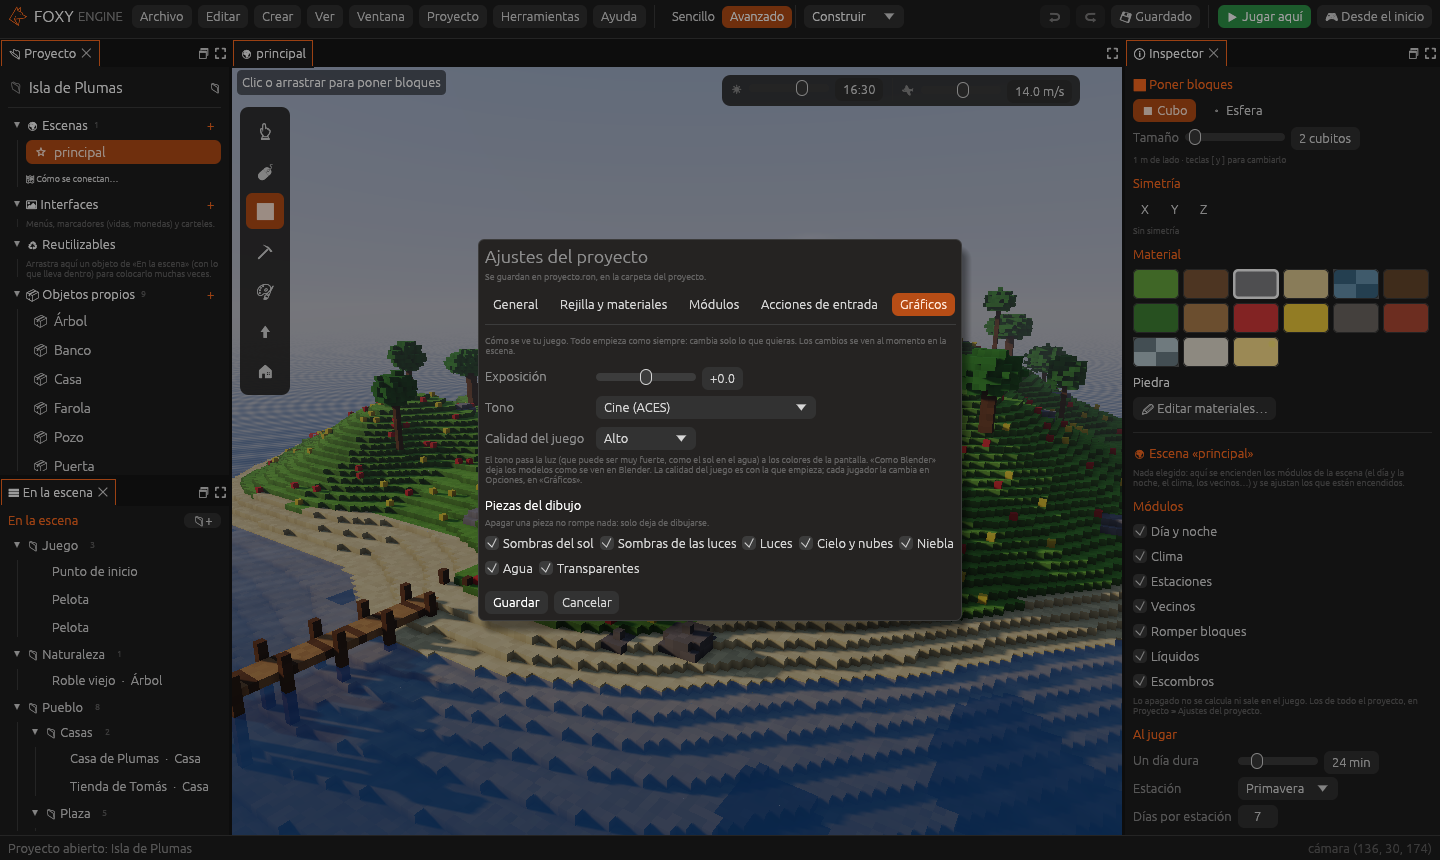
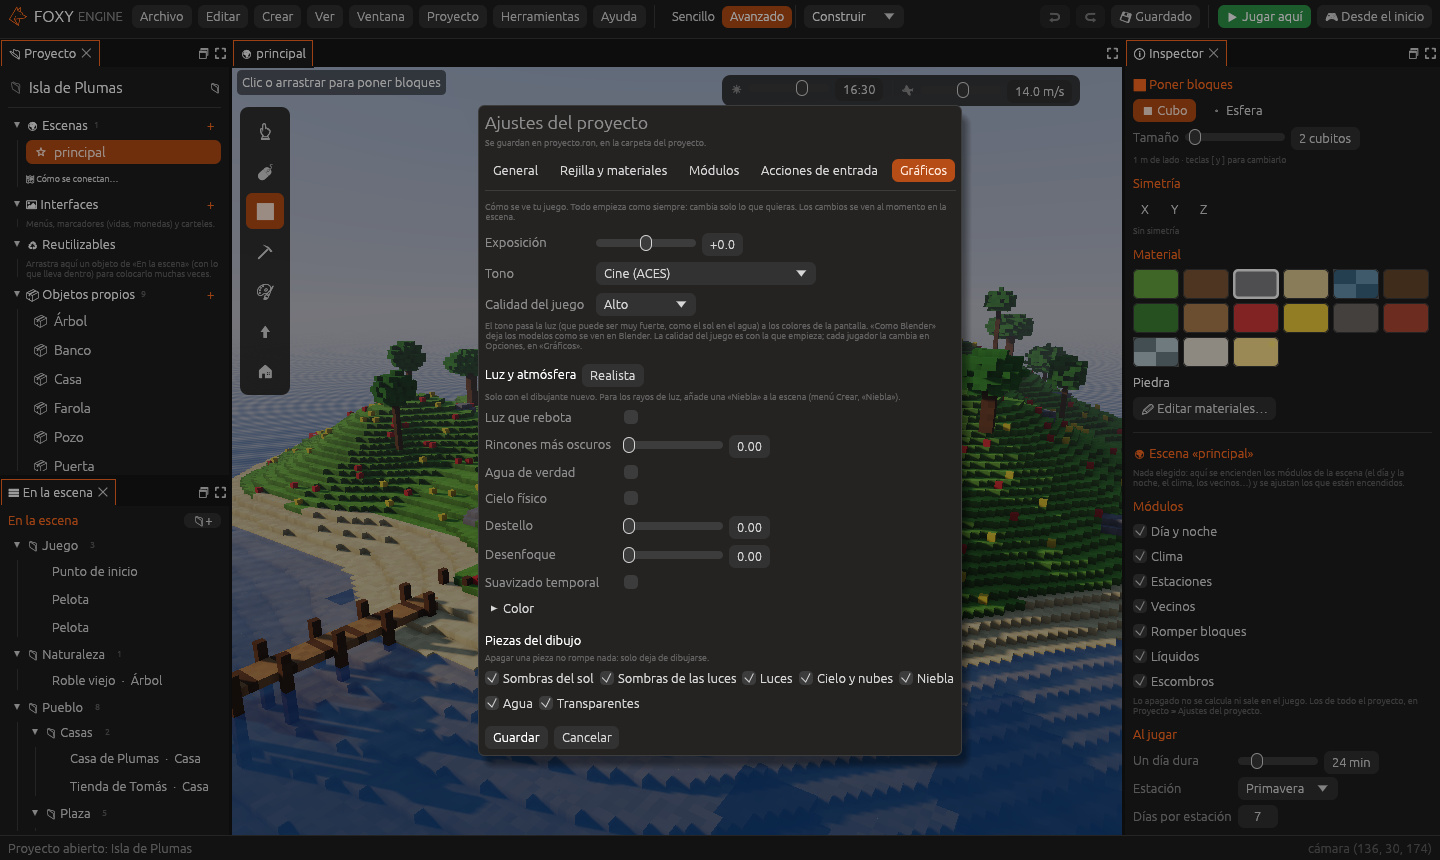
Fase J: luz y atmósfera (#22)
- Gráficos: sección «Luz y atmósfera» (piezas, botón Realista y rayos de
  luz con la niebla), con capturas nuevas.
- Componente Niebla en la referencia, el glosario y el historial.
- Ajustes del proyecto y línea de órdenes (--atmosfera, escena rayos-de-sol).

Claude-Session: https://claude.ai/code/session_0188fnkqAsThJjUnew5984Gv

Changed region(s): [[0.3125, 0.1209, 0.6875, 0.907], [0.5312, 0.4535, 0.625, 0.4837], [0.625, 0.6047, 0.6562, 0.6349]]

diff --git a/theme/version.js b/theme/version.js
@@ -1,2 +1,2 @@
 // Lo escribe herramientas/capturas.py con `foxy-engine --version`.
-window.FOXY_VERSION = "0.0.1-PR40";
+window.FOXY_VERSION = "0.0.1-PR42";

diff --git a/herramientas/capturas.py b/herramientas/capturas.py
@@ -180,7 +180,7 @@ LISTA: dict[str, str] = {
     "isla": f"{JUEGO} {ISLA}",
     # Gráficos (Fase I)
     "ajustes-graficos": f"{ED} --pestana ajustes-graficos",
-    "panel-ajustes-graficos": "@recorte ajustes-graficos 476,236,964,624",
+    "panel-ajustes-graficos": "@recorte ajustes-graficos 476,104,964,758",
     "juego-opciones-graficos": f"{JUEGO} --juego --menu opciones-graficos",
     "cueva-antorchas": f"{JUEGO} --enorme cueva-con-antorchas",
     "modelos-pbr": f"{ED} --pestana modelos --camara 49.6,6.6,50.6 --mirar 47.8,5.2,46 --hora 21 --recortar vista",
@@ -188,6 +188,10 @@ LISTA: dict[str, str] = {
     "tono-blender": f"--ancho 720 --alto 430 {ISLA} --hora 17.2 --tono blender",
     "tono-neutro": f"--ancho 720 --alto 430 {ISLA} --hora 17.2 --tono neutro",
     "tono-ninguno": f"--ancho 720 --alto 430 {ISLA} --hora 17.2 --tono ninguno",
+    # Luz y atmósfera (Fase J)
+    "rayos-de-sol": f"{JUEGO} --enorme rayos-de-sol",
+    "rayos-de-sol-realista": f"{JUEGO} --enorme rayos-de-sol --atmosfera realista",
+    "isla-realista": f"--ancho 720 --alto 430 {ISLA} --hora 17.2 --atmosfera realista",
     # Marca
     "marca-splash": f"{JUEGO} --splash",
     "marca-carga-editor": f"{JUEGO} --editor --splash",

diff --git a/src/guia/graficos.md b/src/guia/graficos.md
@@ -1,4 +1,4 @@
-# Gráficos: luz, sombras y calidad
+# Gráficos: luz, sombras y atmósfera
 
 Foxy Engine dibuja con **luz de verdad**: el sol, una antorcha o la lava
 pueden dar mucha más luz que el blanco de la pantalla, como en la vida real.
@@ -15,7 +15,8 @@ los materiales y las luces funcionan como en Blender.
 
 | Qué | Dónde | Para quién |
 |---|---|---|
-| Exposición, tono y piezas del dibujo | **Proyecto → Ajustes del proyecto → Gráficos** | Todo el juego |
+| Exposición, tono, luz y atmósfera y piezas del dibujo | **Proyecto → Ajustes del proyecto → Gráficos** | Todo el juego |
+| Niebla y rayos de luz | Un objeto con el componente [Niebla](../referencia/componentes/niebla.md) | Esa escena |
 | Calidad con la que empieza el juego | **Ajustes del proyecto → Gráficos** | Los jugadores, al abrirlo por primera vez |
 | Calidad del juego de cada jugador | **Opciones → Gráficos**, dentro del juego | Ese jugador |
 | Calidad en el editor y el dibujante | **Editar → Preferencias** | Tu ordenador |
@@ -88,6 +89,58 @@ que tiene alrededor**. Ver
 
 ![Una losa de lava con relieve que brilla e ilumina la esfera de al lado](../imagenes/capturas/modelos-pbr.png)
 
+## Luz y atmósfera
+
+Estas piezas hacen que la escena parezca de verdad. Todas vienen
+**apagadas**: un proyecto nuevo se ve igual que siempre. El botón
+**Realista** las enciende de una vez con unos valores que quedan bien, y
+**Apagar todo** las quita.
+
+| Isla con el tono Cine | La misma isla con **Realista** |
+|---|---|
+| ![La isla sin luz y atmósfera](../imagenes/capturas/tono-cine.png) | ![La isla con Realista: cielo físico, agua de verdad y destello](../imagenes/capturas/isla-realista.png) |
+
+| Pieza | Qué hace |
+|---|---|
+| **Luz que rebota** | La luz del sol rebota en el terreno de cubitos. Una cueva cerrada se queda a oscuras, y la luz que entra por un agujero aclara la sala |
+| **Rincones más oscuros** | Las juntas y los rincones reciben menos luz (oclusión ambiental). De 0 a 1 |
+| **Agua de verdad** | Se ve el fondo torcido por las olas, el agua honda se vuelve azul, refleja lo que tiene alrededor y hace espuma en la orilla |
+| **Cielo físico** | El color del cielo sale de cómo el aire esparce la luz: azul a mediodía y rojo al atardecer |
+| **Destello** | Lo muy brillante, como el sol o una antorcha, deja un halo |
+| **Desenfoque** | Lo que no está enfocado se ve borroso, como en una cámara. **Enfoque** dice a qué distancia se ve nítido (0 es lo que haya en el centro) |
+| **Suavizado temporal** | Quita los dientes de sierra de los bordes mezclando cada fotograma con el anterior |
+| **Escala del dibujo** | Con el suavizado temporal, dibuja a menos resolución y la vuelve a agrandar: más fotogramas por segundo. Solo al jugar; en el editor se ve siempre entero |
+| **Color** | Contraste, saturación, temperatura (más cálido o más frío) y viñeta (bordes más oscuros) |
+
+Estas piezas solo funcionan con el dibujante nuevo.
+
+### Rayos de luz con la niebla
+
+Para que salgan rayos de luz no hay que tocar ningún ajuste técnico. Basta
+con tres cosas:
+
+1. Un sol: el objeto **Sol** que trae cada escena, o **Crear → Luz del sol**.
+2. Un hueco por donde entre la luz: un agujero en el techo de una cueva, una
+   ventana o los árboles de un bosque.
+3. Niebla: **Crear → Niebla**.
+
+La niebla se ilumina donde le da el sol, y se ven los rayos que entran por
+el agujero. Las antorchas y las demás luces también hacen un halo en la
+niebla. Dentro de una cueva cerrada, la niebla se queda oscura.
+
+| Con la niebla de fábrica | Con la niebla y **Realista** |
+|---|---|
+| ![Una sala con agujeros en el techo: salen rayos de sol en la niebla](../imagenes/capturas/rayos-de-sol.png) | ![La misma sala con Realista: la luz rebota en el suelo y las columnas](../imagenes/capturas/rayos-de-sol-realista.png) |
+
+En el inspector de la niebla se cambian su **Densidad**, la fuerza de los
+**Rayos**, la **Altura** a la que se aclara (para hacer niebla de valle) y su
+**Color**. Ver [Niebla](../referencia/componentes/niebla.md).
+
+> <i class="fx fx-consejo"></i> **Consejo.** La luz que rebota y la niebla
+> gastan más en las calidades altas, porque miran más lejos y con más
+> detalle. Si el juego va lento, baja la **Calidad** o la **Escala del
+> dibujo** antes de apagar piezas.
+
 ## Piezas del dibujo
 
 Cada parte del dibujo se puede apagar: **Sombras del sol**, **Sombras de las
@@ -101,8 +154,8 @@ es lo que más cuesta en un ordenador lento.
 ## El dibujante clásico
 
 En **Editar → Preferencias → Dibujante** puedes elegir el **Clásico**, el
-que tenía el motor antes. No tiene exposición, tono, materiales completos ni
-luces con sombra. Úsalo solo si el nuevo da problemas en tu ordenador, y
+que tenía el motor antes. No tiene exposición, tono, materiales completos,
+luces con sombra ni luz y atmósfera. Úsalo solo si el nuevo da problemas en tu ordenador, y
 cuéntalo para que se pueda arreglar.
 
 ## Véase también
@@ -111,3 +164,4 @@ cuéntalo para que se pueda arreglar.
 - [Preferencias](preferencias.md#gráficos)
 - [Rendimiento](rendimiento.md)
 - [Luz](../referencia/componentes/luz.md)
+- [Niebla](../referencia/componentes/niebla.md)

diff --git a/src/apendices/glosario.md b/src/apendices/glosario.md
@@ -42,6 +42,7 @@
 | **Juego publicado** | Una aplicación hecha con **Proyecto › Publicar…** que se abre con doble clic, sin el motor instalado. Ver [Publicar tu juego](../publicar/publicar.md). |
 | **Llano** | Un terreno de hierba completamente plano, sin isla ni mar a la vista. Es el de un proyecto vacío. |
 | **Luz del sol** | El componente que pone la hora del sol, su fuerza y su color. Ver [Luz del sol](../referencia/componentes/sol.md). |
+| **Luz que rebota** | La luz del sol que rebota en el terreno y aclara lo que está a la sombra; también deja a oscuras las cuevas cerradas. Ver [Gráficos](../guia/graficos.md#luz-y-atmósfera). |
 | **Máquina de estados** | Estados con su animación y flechas con condiciones que eligen la animación sola. Ver [Máquina de estados](../guia/animacion.md#máquina-de-estados). |
 | **Marcador** | Una interfaz que está siempre a la vista mientras se juega. |
 | **Material** | De qué está hecho un cubito: hierba, piedra, madera… |
@@ -51,11 +52,13 @@
 | **Modo Sencillo** | El modo del editor para empezar: solo la escena, el panel Proyecto, la lista de la escena y el inspector. Ver [Modo Sencillo y Avanzado](../empezar/modo-sencillo.md). |
 | **Módulo** | Una parte del motor que el proyecto activa o desactiva. Ver [Módulos](../referencia/modulos/index.md). |
 | **Módulo (de Lua)** | Un guion que devuelve funciones para otros guiones, que lo cargan con `require`. |
+| **Niebla** | El componente que llena la escena de niebla. Donde le da el sol salen rayos de luz. Ver [Niebla](../referencia/componentes/niebla.md). |
 | **Nine-slice (estirar en nueve partes)** | Forma de estirar una imagen sin deformar sus esquinas. |
 | **Nodo** | Una caja de un grafo que hace una sola cosa. Ver la [Referencia de nodos](../referencia/nodos.md). |
 | **OBJ** | Un formato sencillo de modelos 3D: el `.obj` con la forma y el `.mtl` con los materiales. Ver [Modelos 3D](../guia/modelos-3d.md). |
 | **Objeto** | Cualquier cosa colocada en una escena, con nombre, posición, giro, un modelo opcional, componentes y comportamientos. En versiones antiguas del manual se llamaba *entidad*. Ver [Conceptos básicos](../conceptos/basicos.md). |
 | **Objeto propio** | Un objeto hecho con el creador de objetos, guardado en `objetos/`. |
+| **Oclusión ambiental** | Que los rincones y las juntas reciban menos luz. En los ajustes se llama «Rincones más oscuros». |
 | **Ortográfica (cámara)** | Una cámara sin perspectiva: lo lejano se ve igual de grande que lo cercano. |
 | **Paleta** | Una lista de colores para dibujar en pixel art. |
 | **Paleta de comandos** | La búsqueda de <kbd>Cmd</kbd>/<kbd>Ctrl</kbd>+<kbd>K</kbd>: escribe lo que quieres hacer o abrir. |
@@ -82,6 +85,7 @@
 | **Reutilizable (objeto)** | Un objeto guardado, con lo que lleva dentro, para colocarlo muchas veces. Sus copias siguen al original salvo lo cambiado a mano en cada una; sus **partes** son lo que lleva dentro. Ver [Objetos reutilizables](../guia/reutilizables.md). |
 | **RON** | El formato de texto de los archivos `.ron` de Foxy Engine. |
 | **Sprite** | La imagen con la que se ve un objeto 2D. Ver [Sprites](../guia/sprites.md). |
+| **Suavizado temporal** | Quitar los dientes de sierra de los bordes mezclando cada fotograma con el anterior. |
 | **Suceso** | Algo que pasa en un segundo de una animación: un sonido, partículas, un aviso a los nodos o una frase. |
 | **Terreno de cubitos** | El objeto que lleva el suelo de cubitos de una escena y su generador. Una escena lleva uno o ninguno. Ver [El terreno de cubitos](../guia/generadores.md). |
 | **Tono** | La curva que pasa la luz a los colores de la pantalla: Cine, Como Blender, Neutro o Ninguno. Ver [Gráficos](../guia/graficos.md#tono). |

diff --git a/src/referencia/componentes/niebla.md b/src/referencia/componentes/niebla.md
@@ -1,0 +1,40 @@
+# Niebla
+
+Niebla en toda la escena. Donde le da el sol se ilumina, así que la luz
+que entra por un agujero o una ventana se ve como **rayos**. Las antorchas y
+las demás luces hacen un **halo** en ella. Se añade con **Crear → Niebla**;
+si hay varias, manda la primera.
+
+Los rayos y los halos solo salen con el dibujante nuevo. Con el clásico se
+ve la niebla lejana de siempre.
+
+![Rayos de sol en la niebla de una sala con agujeros en el techo](../../imagenes/capturas/rayos-de-sol.png)
+
+## Propiedades
+
+<!-- generado: propiedades -->
+<!-- Esta tabla la escribe `foxy-engine --referencia-componentes`. -->
+
+| Propiedad | Campo | De fábrica | Descripción |
+|---|---|---|---|
+| Densidad | `densidad` | 0,3 | Lo espesa que es, de 0 (nada) a 1 (no se ve a unos metros). |
+| Color | `color` | `"#ffffff"` | Color de la niebla, `#rrggbb` (blanco = gris, como la de siempre). |
+| Altura | `altura` | 200 m | Por encima de esta altura se va aclarando (niebla de valle). Muy alta = igual en todas partes. |
+| Rayos | `rayos` | 1 | Fuerza de los rayos de luz y de los halos de las luces, de 0 a 2. |
+
+<!-- fin -->
+
+Para una niebla de valle, que se queda abajo y deja ver las cumbres, baja
+la **Altura** hasta un poco por encima del suelo. Para una niebla que solo
+deja ver los rayos, sin tapar lo lejano, deja la **Densidad** baja y sube
+los **Rayos**.
+
+```ron
+Niebla((densidad: 0.35, rayos: 1.2, altura: 40.0))
+```
+
+## Véase también
+
+- [Componentes](index.md)
+- [Luz del sol](sol.md)
+- [Gráficos: luz, sombras y atmósfera](../../guia/graficos.md#luz-y-atmósfera)

diff --git a/src/referencia/linea-de-comandos.md b/src/referencia/linea-de-comandos.md
@@ -112,6 +112,7 @@ Valen para cualquier captura, con o sin `--editor`. Ver
 | `--tono <curva>` | `cine`, `blender`, `neutro` o `ninguno` |
 | `--exposicion <n>` | Exposición en pasos, por ejemplo `-1` o `0.5` |
 | `--corazon <dibujante>` | `nuevo` o `clasico` |
+| `--atmosfera <piezas>` | `realista`, `nada` o una lista separada por comas con `luz`, `oclusion`, `agua`, `cielo`, `destello`, `desenfoque`, `color` y `temporal` |
 
 Los paneles son `vista`, `proyecto`, `escena`, `inspector`, `codigo`,
 `nodos`, `archivos`, `materiales`, `pixel` y `registro`. Las capturas
@@ -135,7 +136,7 @@ lento ni cambia la imagen sin querer. Las usa GitHub Actions en cada cambio.
 
 ### Escenas de prueba enormes
 
-El motor fabrica solo cuatro escenas para medirse al límite. Salen siempre
+El motor fabrica solo cinco escenas para medirse al límite. Salen siempre
 iguales:
 
 | Nombre | Qué tiene |
@@ -144,6 +145,7 @@ iguales:
 | `mundo-grande` | Colinas con cuevas de 768 × 768 m |
 | `muchas-luces` | 400 farolas encendidas de noche |
 | `cueva-con-antorchas` | Una sala de piedra con columnas y seis antorchas que hacen sombra |
+| `rayos-de-sol` | Una sala con tres agujeros en el techo, sol de mañana y niebla: salen rayos de luz |
 
 Para verlas: `--captura x.png --enorme <nombre>`. Para verlas en el editor y
 jugando, con el perfilador:

diff --git a/src/editor/ajustes-proyecto.md b/src/editor/ajustes-proyecto.md
@@ -66,15 +66,16 @@ Cómo se ve el juego. Los cambios se ven al momento en la escena.
 | **Exposición** | Más luz (+) o menos (−), como en una cámara: +1 es el doble |
 | **Tono** | Cómo pasa la luz a colores: **Cine (ACES)**, **Como Blender (AgX)**, **Neutro** o **Ninguno** |
 | **Calidad del juego** | La calidad con la que empieza el juego. Cada jugador la cambia en **Opciones → Gráficos** |
+| **Luz y atmósfera** | Luz que rebota, rincones más oscuros, agua de verdad, cielo físico, destello, desenfoque, suavizado temporal, escala del dibujo y color. **Realista** las enciende todas y **Apagar todo** las quita |
 | **Piezas del dibujo** | Apaga sombras, luces, cielo, niebla, agua o transparentes |
 
 **Volver a como venía** deja la página como al principio. Todo se explica en
-[Gráficos: luz, sombras y calidad](../guia/graficos.md).
+[Gráficos: luz, sombras y atmósfera](../guia/graficos.md).
 
 ## Véase también
 
 - [Archivos del proyecto: proyecto.ron](../referencia/archivos.md#proyecto)
 - [Módulos](../referencia/modulos/index.md)
 - [Escenas](../guia/escenas.md)
-- [Gráficos: luz, sombras y calidad](../guia/graficos.md)
+- [Gráficos: luz, sombras y atmósfera](../guia/graficos.md)
 - [Pixel art](../guia/pixel-art.md)

diff --git a/src/apendices/historial.md b/src/apendices/historial.md
@@ -5,6 +5,21 @@ Foxy Engine se construye por fases. Cada fase deja el motor funcionando.
 La versión que sale al abrir el editor, como `0.0.1-PR15`, junta la versión
 del motor con el número del último cambio (*pull request*) incorporado.
 
+## Fase J: Luz y atmósfera
+
+- **Rayos de luz**: con un sol, un agujero en el techo y el componente nuevo
+  [Niebla](../referencia/componentes/niebla.md), salen los rayos sin tocar
+  ningún ajuste técnico. Las antorchas hacen halo en la niebla.
+- **Luz que rebota**: las cuevas cerradas se quedan a oscuras, y la luz que
+  entra por un agujero rebota y aclara la sala.
+- **Rincones más oscuros**, **agua de verdad** (fondo, reflejos y espuma),
+  **cielo físico**, **destello**, **desenfoque**, **corrección de color** y
+  **suavizado temporal** con **escala del dibujo**, en la sección
+  **Luz y atmósfera** de los ajustes del proyecto. El botón **Realista** lo
+  enciende todo. Ver [Gráficos](../guia/graficos.md#luz-y-atmósfera).
+- Todo viene apagado: un proyecto se ve igual que antes hasta que tú lo
+  enciendes.
+
 ## Fase I: Corazón gráfico nuevo
 
 - **Luz de verdad (HDR)** con **exposición** y **tono** (Cine, Como Blender,

diff --git a/src/SUMMARY.md b/src/SUMMARY.md
@@ -47,7 +47,7 @@
 - [Ajustes del proyecto](editor/ajustes-proyecto.md)
 - [Preferencias y teclas](guia/preferencias.md)
 - [Probar el juego](guia/jugar.md)
-- [Gráficos: luz, sombras y calidad](guia/graficos.md)
+- [Gráficos: luz, sombras y atmósfera](guia/graficos.md)
 - [Rendimiento](guia/rendimiento.md)
 
 # Conceptos
@@ -118,6 +118,7 @@
     - [Partículas](referencia/componentes/particulas.md)
     - [Terreno de cubitos](referencia/componentes/terreno.md)
     - [Luz del sol](referencia/componentes/sol.md)
+    - [Niebla](referencia/componentes/niebla.md)
 - [Módulos](referencia/modulos/index.md)
     - [Día y noche](referencia/modulos/dia-y-noche.md)
     - [Clima](referencia/modulos/clima.md)

diff --git a/src/referencia/componentes/index.md b/src/referencia/componentes/index.md
@@ -23,6 +23,7 @@ Referencia de los componentes que se pueden añadir a una entidad. Ver
 | [Partículas](particulas.md) | `Particulas` | Polvo, chispas, lluvia, nieve, humo u hojas que salen de aquí. |
 | [Terreno de cubitos](terreno.md) | `Terreno` | El suelo de cubitos de la escena: plano, islas, colinas, cuevas o una imagen. |
 | [Luz del sol](sol.md) | `Sol` | La luz de la escena: la hora del sol, su fuerza y su color. |
+| [Niebla](niebla.md) | `Niebla` | Niebla en toda la escena: donde entra el sol salen rayos de luz, y las luces hacen halo. |
 
 <!-- fin -->
 

diff --git a/src/guia/preferencias.md b/src/guia/preferencias.md
@@ -37,7 +37,7 @@ en `Documentos/Foxy Engine/preferencias.ron`. Se aplican al pulsar
   materiales completos) o el **Clásico**, el de antes. Usa el clásico solo si
   el nuevo da problemas en tu ordenador.
 
-Ver [Gráficos: luz, sombras y calidad](graficos.md).
+Ver [Gráficos: luz, sombras y atmósfera](graficos.md).
 
 ## Cámara
 

diff --git a/src/referencia/componentes/luz.md b/src/referencia/componentes/luz.md
@@ -32,5 +32,5 @@ Luz((color: "#ff9a3c", intensidad: 3.0, alcance: 12.0, altura: 1.7, sombras: tru
 ## Véase también
 
 - [Componentes](index.md)
-- [Gráficos: luz, sombras y calidad](../../guia/graficos.md)
+- [Gráficos: luz, sombras y atmósfera](../../guia/graficos.md)
 - [Entidades y componentes](../../guia/entidades.md)
